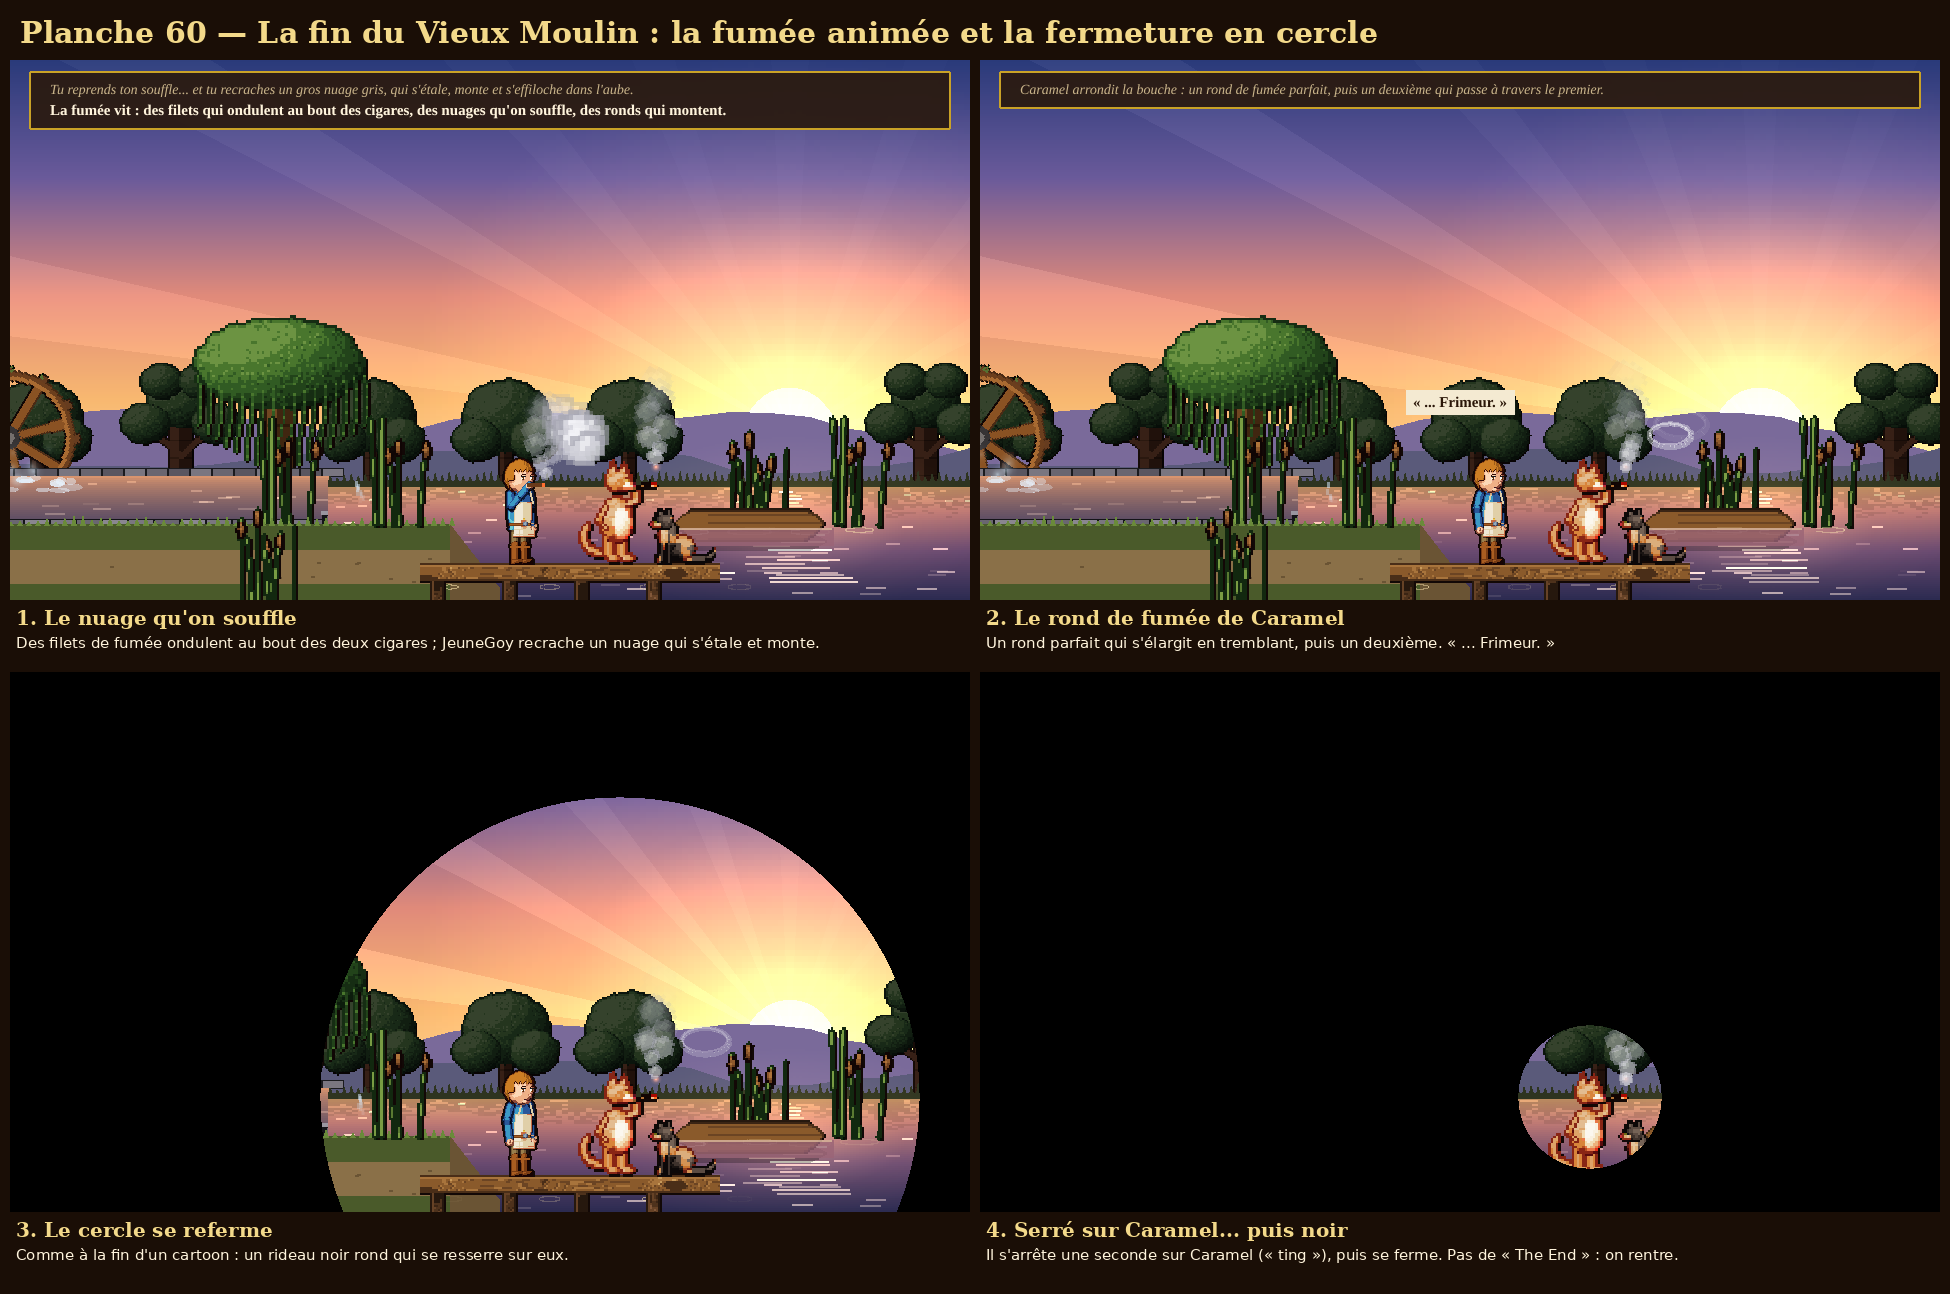
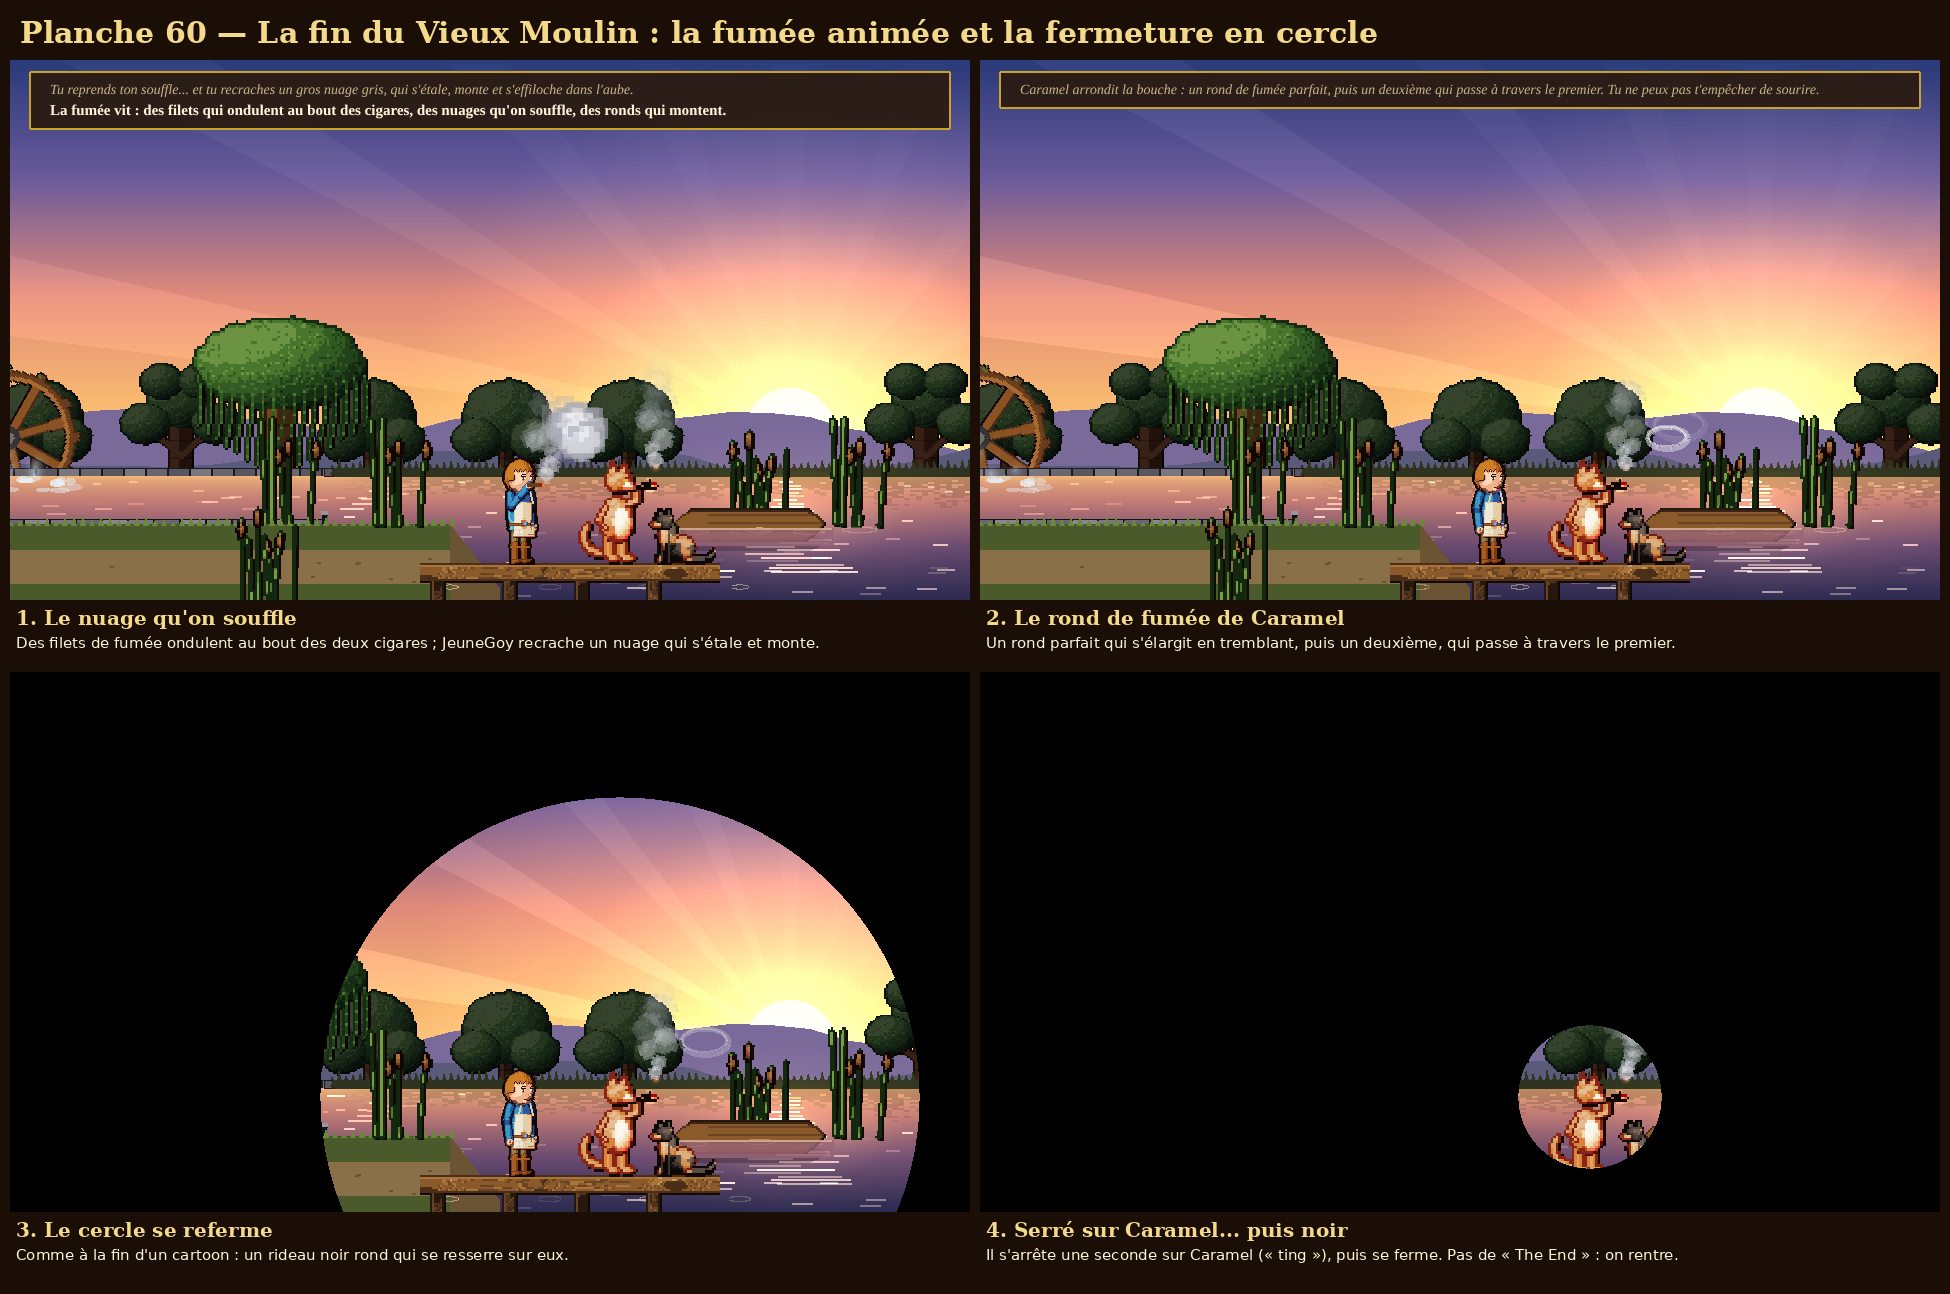
Caramel maître de la fumée : douze formes qui se tracent et vivent (navire, cœur, poisson...), planche des formes ; le joueur ne parle plus dans la planche de fin
Claude-Session: https://claude.ai/code/session_018kbaP56NxxNMUzmj9EfKBC

diff --git a/src/moulinHD.js b/src/moulinHD.js
@@ -449,3 +449,66 @@ function fermetureEnCercle(scene, x, y, { rayonPause = 70, duree = 1400, pause =
   });
   return { g, dessiner, promesse };
 }
+
+// (v1.35, demande du joueur) Caramel est un maître de la fumée : comme le vieux magicien qui fait voguer un navire de
+// fumée à travers le rond de son ami, il souffle des formes. Chaque forme est faite de traits (des listes de points, en
+// unités : x vers la droite, y vers le bas, environ de -1 à 1) ; les bouffées partent de sa bouche, viennent se poser sur
+// les traits comme un dessin qui se trace, puis la forme vit un moment (le navire vogue, le poisson nage, le cœur bat...)
+// avant de se défaire. Plus tard, à la maison, il en soufflera une nouvelle à chaque fois, ailleurs (voir le GDD).
+const cercleFumee = (cx, cy, rx, ry, a0 = 0, a1 = Math.PI * 2, n = 14) => Array.from({ length: n + 1 }, (_, i) => { const a = a0 + (a1 - a0) * i / n; return [cx + Math.cos(a) * rx, cy + Math.sin(a) * ry]; });
+const FORMES_FUMEE = {
+  navire: { nom: 'un navire', mouvement: 'vogue', traits: [
+    [[-1.1, 0], [-0.85, 0.32], [0.85, 0.32], [1.15, -0.05]], [[-1.1, 0], [1.15, -0.05]],                 // (la coque, le pont)
+    [[0, 0], [0, -1.25]], [[0, -1.15], [0.62, -0.42], [0, -0.32]], [[0, -1.05], [-0.55, -0.45], [0, -0.38]],   // (le mât, les deux voiles)
+    [[0, -1.25], [0.3, -1.14], [0, -1.05]], [[0.85, -0.05], [1.35, -0.42]] ] },                            // (le fanion, le beaupré)
+  coeur: { nom: 'un cœur', mouvement: 'bat', traits: [Array.from({ length: 25 }, (_, i) => { const t = i / 24 * Math.PI * 2; return [0.06 * 16 * Math.sin(t) ** 3, -0.06 * (13 * Math.cos(t) - 5 * Math.cos(2 * t) - 2 * Math.cos(3 * t) - Math.cos(4 * t))]; })] },
+  poisson: { nom: 'un poisson', mouvement: 'nage', traits: [cercleFumee(0, 0, 0.75, 0.42), [[-0.7, 0], [-1.25, -0.42], [-1.15, 0], [-1.25, 0.42], [-0.7, 0]], [[0.42, -0.1], [0.44, -0.08]], [[0.05, -0.38], [-0.15, -0.7], [-0.35, -0.38]]] },
+  papillon: { nom: 'un papillon', mouvement: 'vol', traits: [cercleFumee(-0.5, -0.35, 0.45, 0.38), cercleFumee(0.5, -0.35, 0.45, 0.38), cercleFumee(-0.38, 0.35, 0.3, 0.26), cercleFumee(0.38, 0.35, 0.3, 0.26), [[0, -0.6], [0, 0.6]], [[0, -0.6], [-0.25, -1]], [[0, -0.6], [0.25, -1]]] },
+  etoile: { nom: 'une étoile', mouvement: 'tourne', traits: [Array.from({ length: 11 }, (_, i) => { const a = -Math.PI / 2 + i * Math.PI / 5, r = i % 2 ? 0.42 : 1; return [Math.cos(a) * r, Math.sin(a) * r]; })] },
+  lune: { nom: 'une lune', mouvement: 'flotte', traits: [cercleFumee(0, 0, 1, 1, -Math.PI * 0.6, Math.PI * 0.6, 18), cercleFumee(0.42, 0, 0.72, 0.85, -Math.PI * 0.55, Math.PI * 0.55, 14)] },
+  souris: { nom: 'une souris', mouvement: 'trotte', traits: [[[1.05, 0.1], [0.55, -0.42], [0, -0.5], [-0.55, -0.35], [-0.72, 0.1], [1.05, 0.1]], cercleFumee(0.42, -0.7, 0.24, 0.24), [[0.78, -0.12], [0.8, -0.1]], [[-0.72, 0.05], [-1.05, -0.1], [-1.25, -0.4], [-1.1, -0.65], [-0.9, -0.55]]] },
+  oiseau: { nom: 'un oiseau', mouvement: 'vol', traits: [[[-1, -0.3], [-0.5, -0.55], [0, 0]], [[0, 0], [0.5, -0.55], [1, -0.3]], [[0, 0], [0.1, 0.25]]] },
+  couronne: { nom: 'une couronne', mouvement: 'flotte', traits: [[[-0.9, 0.35], [-0.9, -0.45], [-0.45, -0.05], [0, -0.65], [0.45, -0.05], [0.9, -0.45], [0.9, 0.35], [-0.9, 0.35]]] },
+  dragon: { nom: 'un petit dragon', mouvement: 'vol', traits: [[[-1.4, 0.15], [-1.15, 0.35], [-0.7, 0.1], [-0.2, 0.3], [0.3, 0.1], [0.65, -0.25]], [[-1.4, 0.15], [-1.55, 0], [-1.4, -0.1]], [[0.65, -0.25], [1.1, -0.2], [0.75, -0.45], [0.65, -0.25]], [[0.75, -0.45], [0.7, -0.7]], [[-0.3, 0.2], [-0.55, -0.6], [-0.15, -0.35], [0.05, -0.9], [0.25, -0.3], [0.1, 0.18]]] },
+  chat: { nom: 'une tête de chat', mouvement: 'flotte', traits: [cercleFumee(0, 0, 0.75, 0.62), [[-0.62, -0.32], [-0.55, -1], [-0.18, -0.6]], [[0.62, -0.32], [0.55, -1], [0.18, -0.6]], [[-0.3, -0.1], [-0.28, -0.08]], [[0.3, -0.1], [0.32, -0.08]], [[-0.85, 0.15], [-0.35, 0.18]], [[0.85, 0.15], [0.35, 0.18]]] },
+  ancre: { nom: 'une ancre', mouvement: 'flotte', traits: [[[0, -0.9], [0, 0.8]], cercleFumee(0, -1.05, 0.17, 0.17), [[-0.4, -0.55], [0.4, -0.55]], cercleFumee(0, 0.25, 0.7, 0.6, 0, Math.PI, 10)] },
+};
+// La forme suivante : une qu'il n'a jamais soufflée, sinon au hasard
+function formeDeFumeeSuivante(dejaVues = []) {
+  const neuves = Object.keys(FORMES_FUMEE).filter(f => !dejaVues.includes(f));
+  return Phaser.Utils.Array.GetRandom(neuves.length ? neuves : Object.keys(FORMES_FUMEE));
+}
+// Souffler une forme : de la bouche (bx, by) vers le centre (cx, cy), à la taille voulue (en pixels pour une unité)
+function formeDeFumee(scene, forme, bx, by, cx, cy, { taille = 46, profondeur = 8.75, tenue = 2600, sens = 1, vit = true } = {}) {
+  creerFumeeHD(scene);
+  const F = FORMES_FUMEE[forme]; if (!F) return null;
+  const c = scene.add.container(cx, cy).setDepth(profondeur), bouffees = [];
+  // les points des traits, à intervalles réguliers (un dessin qui se trace dans l'ordre des traits)
+  const pas = 0.15;
+  for (const trait of F.traits) for (let i = 0; i < trait.length - 1; i++) {
+    const [x0, y0] = trait[i], [x1, y1] = trait[i + 1], n = Math.max(1, Math.round(Math.hypot(x1 - x0, y1 - y0) / pas));
+    for (let k = 0; k < n; k++) bouffees.push([(x0 + (x1 - x0) * k / n) * sens, y0 + (y1 - y0) * k / n]);
+  }
+  const fin = F.traits[F.traits.length - 1].slice(-1)[0]; bouffees.push([fin[0] * sens, fin[1]]);
+  const ech = Math.max(0.9, taille / 36);   // (des bouffées fines : la forme se lit mieux)
+  bouffees.forEach(([ux, uy], i) => {
+    const f = scene.add.image(bx - cx, by - cy, 'fumeeHD_' + (i % 3)).setScale(ech * 0.4).setAlpha(0.9);
+    c.add(f);
+    scene.tweens.add({ targets: f, x: ux * taille + (Math.random() - 0.5) * 2, y: uy * taille + (Math.random() - 0.5) * 2, scale: ech * (0.85 + Math.random() * 0.25), duration: 420, delay: i * 22, ease: 'Quad.easeOut',
+      onComplete: () => scene.tweens.add({ targets: f, x: f.x + (Math.random() - 0.5) * 3, y: f.y + (Math.random() - 0.5) * 3, duration: 600 + Math.random() * 400, yoyo: true, repeat: -1, ease: 'Sine.easeInOut' }) });
+  });
+  const trace = bouffees.length * 22 + 420;
+  // la forme vit : chacune à sa façon
+  const vie = { vogue: { x: cx + sens * 160, angle: 3 }, nage: { x: cx + sens * 120 }, vol: { x: cx + sens * 90, y: cy - 50 }, trotte: { x: cx + sens * 140 }, bat: {}, tourne: { angle: 30 }, flotte: { y: cy - 24 } }[F.mouvement] || {};
+  if (vit) scene.time.delayedCall(trace, () => {
+    scene.tweens.add({ targets: c, ...vie, duration: tenue, ease: 'Sine.easeInOut' });
+    if (F.mouvement === 'vogue') scene.tweens.add({ targets: c, y: cy + 5, duration: 700, yoyo: true, repeat: -1, ease: 'Sine.easeInOut' });   // (le navire tangue sur les vagues)
+    if (F.mouvement === 'nage') scene.tweens.add({ targets: c, y: cy + 8, angle: 4 * sens, duration: 500, yoyo: true, repeat: -1, ease: 'Sine.easeInOut' });
+    if (F.mouvement === 'vol') scene.tweens.add({ targets: c, scaleY: 0.82, duration: 260, yoyo: true, repeat: -1 });   // (les ailes battent)
+    if (F.mouvement === 'trotte') scene.tweens.add({ targets: c, y: cy - 4, duration: 160, yoyo: true, repeat: -1 });
+    if (F.mouvement === 'bat') scene.tweens.add({ targets: c, scale: 1.12, duration: 300, yoyo: true, repeat: -1, ease: 'Quad.easeOut' });
+    // puis elle se défait : chaque bouffée s'élargit et monte, de proche en proche
+    scene.time.delayedCall(tenue, () => c.list.forEach((f, i) => { scene.tweens.killTweensOf(f); scene.tweens.add({ targets: f, y: f.y - 30 - Math.random() * 30, x: f.x + (Math.random() - 0.5) * 20, scale: f.scale * 2.2, alpha: 0, duration: 1400, delay: i * 8, onComplete: () => { if (i === c.list.length - 1) c.destroy(); } }); }));
+  });
+  return c;
+}

diff --git a/docs/game-design.md b/docs/game-design.md
@@ -2906,3 +2906,22 @@ entre les deux eaux ».
 - Le bief et l'étang ne font qu'une eau : même niveau, mêmes teintes à la même hauteur (`EAU_ETANG`, option `gamme` de
   la surface), le reflet des arbres naît doucement après le bief, la margelle du fond se prolonge par la rive d'en face
   (sa dernière pierre mangée par l'herbe) ; au bout du bief, le courant s'épanouit en rides qui s'élargissent.
+
+Demande du joueur (21/10) : « que le chat maîtrise bien l'art de faire des formes en fumant, comme quand Gandalf fume le
+vieux tobi avec Bilbon et qu'il dessine un navire avec sa fumée, et faire que le chat pour plus tard fume dans différents
+endroits de la maison du joueur en faisant une forme nouvelle à chaque fois ».
+
+### Planche 60 — Caramel, maître de la fumée (à valider : docs/planches-v059/planche-60-formes-de-fumee.png)
+- `FORMES_FUMEE` (`src/moulinHD.js`) : douze formes faites de traits — navire, cœur, poisson, papillon, étoile, lune,
+  souris, oiseau, couronne, petit dragon, tête de chat, ancre. `formeDeFumee(scene, forme, bouche, centre)` : les bouffées
+  quittent sa bouche et se posent le long des traits, comme un dessin qui se trace ; puis la forme vit à sa façon (le
+  navire vogue en tanguant, le poisson nage, l'oiseau, le papillon et le dragon battent des ailes, le cœur bat, l'étoile
+  tourne, la souris trotte, le reste flotte) avant de se défaire bouffée par bouffée.
+- Au Vieux Moulin : le navire ; s'il a fumé avec lui, JeuneGoy souffle un rond et le navire passe au travers ; un cœur
+  pour la chatte ; un poisson au-dessus de l'étang.
+- Plus tard, à la maison (avec le coin des chats) : Caramel fume à des endroits différents (au coin du feu, à la fenêtre,
+  sur le comptoir le soir, au grenier, sur le toit...) et souffle chaque fois une forme jamais vue
+  (`formeDeFumeeSuivante(G.chat.formesVues)`) ; une fois toutes vues, il recommence au hasard. Idée de succès : « Le
+  répertoire complet ».
+- Correction : le joueur ne parle jamais ; la réplique « ... Frimeur. » de la planche de fin est remplacée par la
+  narration (« Tu ne peux pas t'empêcher de sourire »).
